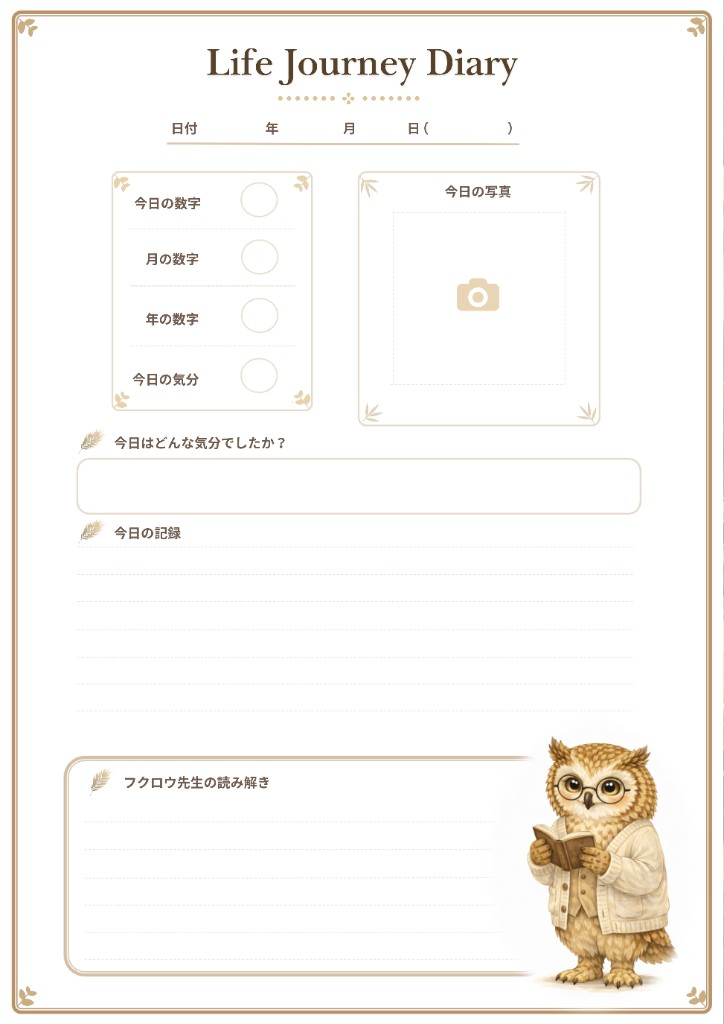
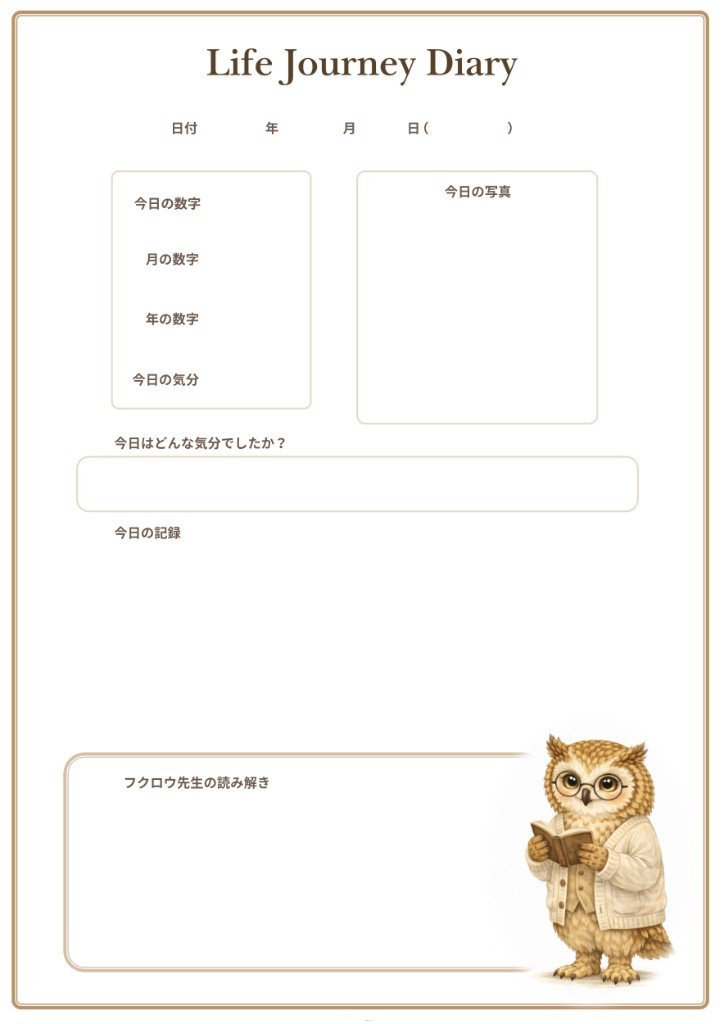
assets: シンプル罫線なしテンプレの高画質PNGを配置（?v=2）
- 画面・print 用の両パスに同一アセット（低画質版は後で screen のみ差し替え可）

diff --git a/src/lib/journal/templateAssets.ts b/src/lib/journal/templateAssets.ts
@@ -5,7 +5,7 @@ export const diaryTemplateScreenImageMap: Record<DiaryDesignId, string> = {
   cute: "/images/diary-template-cute.png?v=2",
   cute_plain: "/images/diary-template-cute-plain.png?v=1",
   simple: "/images/diary-template-simple.png?v=4",
-  simple_plain: "/images/diary-template-simple-plain.png?v=1",
+  simple_plain: "/images/diary-template-simple-plain.png?v=2",
 };
 
 /**
@@ -18,5 +18,5 @@ export const diaryTemplatePrintImageMap: Record<DiaryDesignId, string> = {
   cute: "/images/diary-template-cute.png?v=2",
   cute_plain: "/images/diary-template-cute-plain-print.png?v=1",
   simple: "/images/diary-template-simple-print.png?v=1",
-  simple_plain: "/images/diary-template-simple-plain-print.png?v=1",
+  simple_plain: "/images/diary-template-simple-plain-print.png?v=2",
 };
